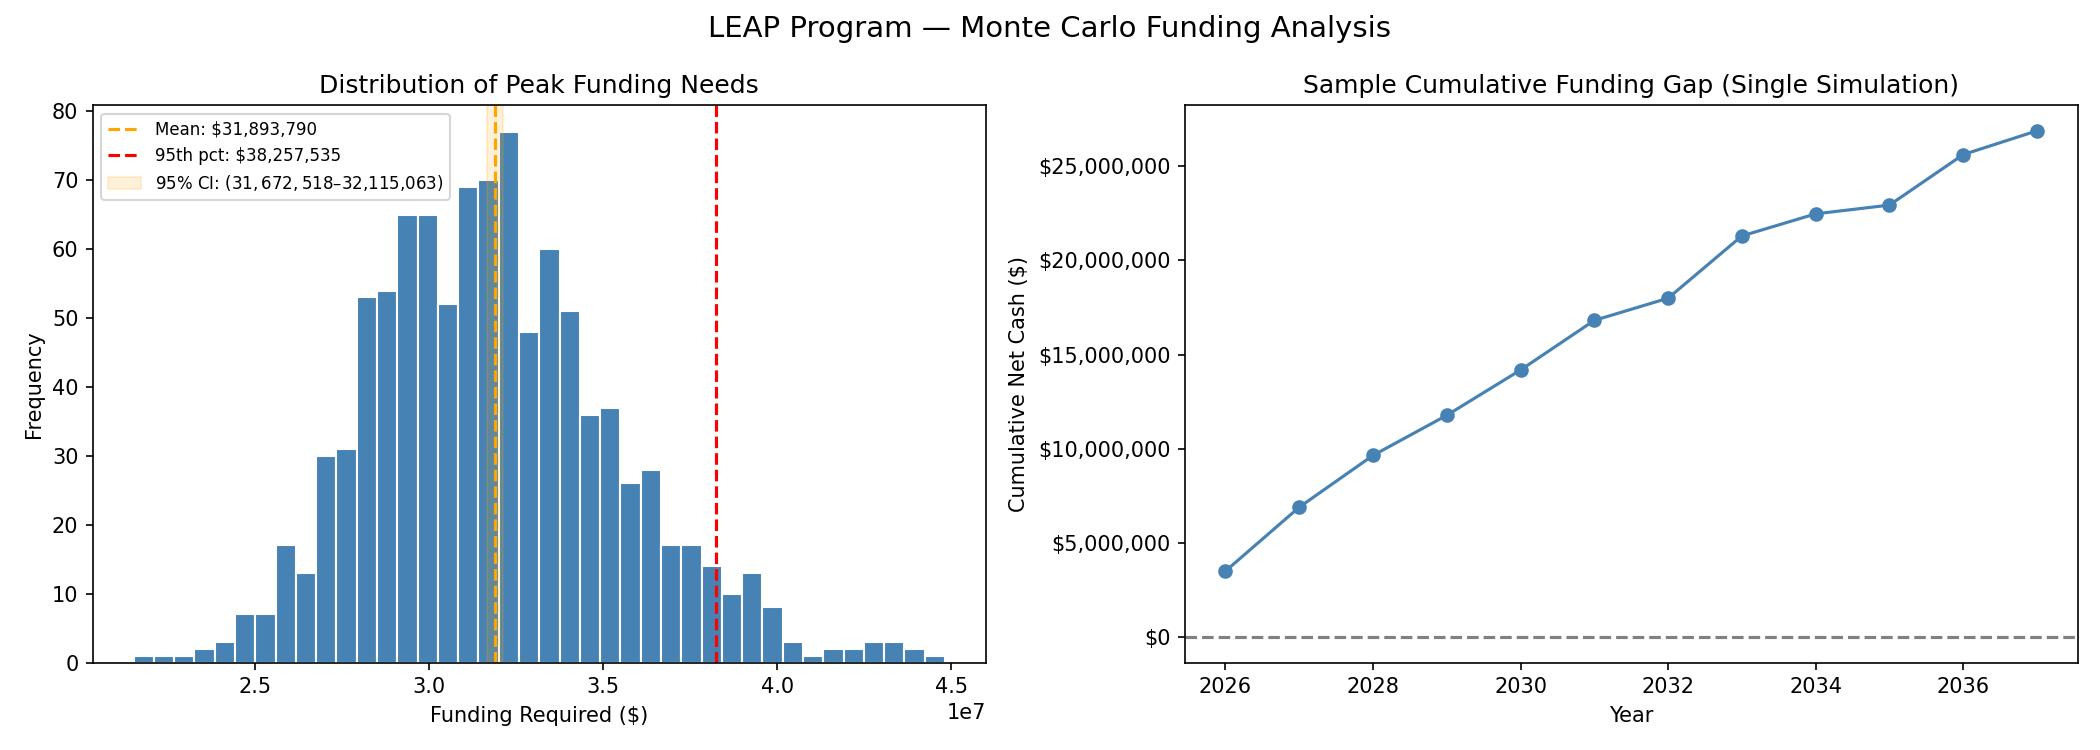
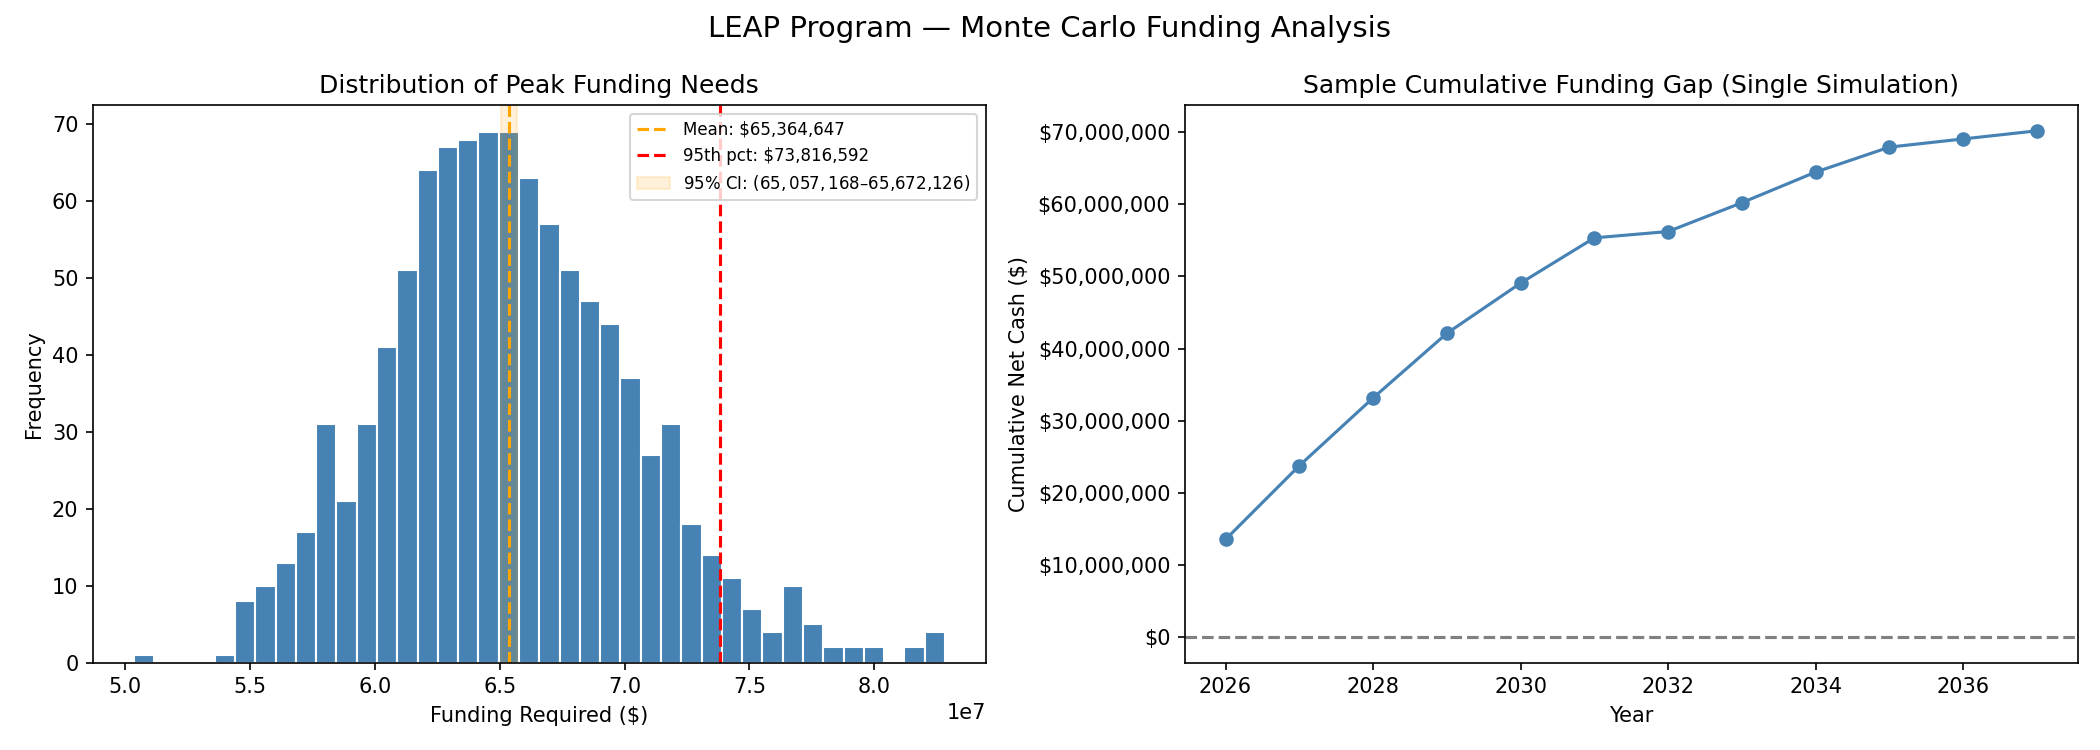
5:26

diff --git a/src/monte_carlo.py b/src/monte_carlo.py
@@ -14,76 +14,99 @@ def compute_funding_requirement(outflows, inflows):
 # -------------------------------------------------------
 # Parameters
 # -------------------------------------------------------
-HOMES        = 72848
-YEARS        = np.arange(2026, 2038)
-N_YEARS      = len(YEARS)
+HOMES   = 16280
+YEARS   = np.arange(2026, 2038)   # 2026–2037 inclusive (12 years)
+N_YEARS = len(YEARS)
 
-# Pipe failure
-p_base_failure   = 0.02     # annual base probability a pipe fails (~2% per year, ~50yr lifespan)
-p_weather_event  = 0.002    # probability of an extreme weather year
-weather_multiplier = 2.0    # failure rate multiplier during weather event
-
-# Repair vs replacement
-# Repairs excluded from program per problem scope — only replacements are loans
-p_replace = 0.40            # 40% of failures → full replacement (loan issued)
-                             # 60% of failures → repair (NOT funded by program, ignored)
+# Replacement schedule decay — rebuilt each simulation
+decay_mean = 0.10
+decay_std  = 0.025
 
 # Loan parameters
-replace_mean = 7386          # mean replacement cost
-replace_std  = 2613.92       # standard deviation of replacement cost
-loan_cap     = 10000         # max loan amount per LEAP rules
+replace_mean = 7386
+replace_std  = 2613.92
+loan_cap     = 10000
 
 # Repayment triggers
-p_sale = 0.0878              # annual probability of home sale
-p_refi = 0.0325              # annual probability of refinancing / HELOC
+p_sale = 0.0878
+p_refi = 0.0325
+p_aid  = 0.03821   # 3.821% of homeowners receive aid — loan is forgiven, never repaid
 
 # Inflation
 inflation_mean = 0.0321
 inflation_std  = 0.0394
 
+# Weather — affects cost slightly, not replacement count
+# (pipe is being replaced on schedule regardless)
+p_weather_event   = 0.002
+weather_cost_mult = 1.15    # costs run ~15% higher in a weather year
+
 
 # -------------------------------------------------------
-# Single Simulation (vectorized over homes for speed)
+# Build replacement schedule
+# -------------------------------------------------------
+def build_schedule():
+    # Fixed baseline schedule used only for display purposes in main.
+    # Each simulation rebuilds its own schedule with stochastic decay.
+    weights  = np.array([0.9**t for t in range(N_YEARS)], dtype=float)
+    weights /= weights.sum()
+    schedule = np.round(weights * HOMES).astype(int)
+    diff = HOMES - schedule.sum()
+    schedule[0] += diff
+    return schedule
+
+SCHEDULE = build_schedule()  # baseline for display only
+
+
+# -------------------------------------------------------
+# Single Simulation
 # -------------------------------------------------------
 def single_simulation():
     outflows = np.zeros(N_YEARS)
     inflows  = np.zeros(N_YEARS)
 
+    # Rebuild schedule each simulation with stochastic decay
+    # Each year's decay rate is drawn from Normal(decay_mean, decay_std)
+    decays   = np.random.normal(decay_mean, decay_std, size=N_YEARS)
+    decays   = np.clip(decays, 0, 1)   # decay can't be negative or >100%
+    weights  = np.zeros(N_YEARS)
+    weights[0] = 1.0
+    for t in range(1, N_YEARS):
+        weights[t] = weights[t-1] * (1 - decays[t])
+    weights /= weights.sum()
+    schedule = np.round(weights * HOMES).astype(int)
+    schedule[0] += HOMES - schedule.sum()  # fix rounding
+
     for t in range(N_YEARS):
-        # Inflation for this year
+        n_homes = schedule[t]
+
+        if n_homes == 0:
+            continue
         inflation        = np.random.normal(inflation_mean, inflation_std)
         inflation_factor = (1 + inflation) ** t
 
-        # Weather shock (Bernoulli draw)
-        weather_event = np.random.rand() < p_weather_event
-        p_failure     = p_base_failure * (weather_multiplier if weather_event else 1.0)
+        # Weather shock — slightly inflates costs
+        weather_event   = np.random.rand() < p_weather_event
+        cost_multiplier = inflation_factor * (weather_cost_mult if weather_event else 1.0)
 
-        # --- Vectorized over all homes ---
-        # Step 1: which homes fail this year?
-        failures = np.random.rand(HOMES) < p_failure
-
-        # Step 2: of those, which get a full replacement (vs repair, which is excluded)?
-        replacements = failures & (np.random.rand(HOMES) < p_replace)
-        n_replacements = replacements.sum()
-
-        if n_replacements == 0:
-            continue
-
-        # Step 3: draw replacement costs, cap at loan_cap, apply inflation
-        costs = np.random.normal(replace_mean, replace_std, size=n_replacements)
+        # Draw replacement costs for all homes replaced this year
+        costs = np.random.normal(replace_mean, replace_std, size=n_homes)
         costs = np.clip(costs, 0, loan_cap)
-        costs *= inflation_factor
+        costs *= cost_multiplier
 
-        # Step 4: record outflows
+        # Record outflows
         outflows[t] += costs.sum()
 
-        # Step 5: simulate repayment timing for each replacement loan
+        # Simulate repayment timing for each loan
         for cost in costs:
+            # Aid recipients have their loan forgiven — no repayment ever
+            if np.random.rand() < p_aid:
+                continue
             for future_t in range(t, N_YEARS):
                 if (np.random.rand() < p_sale) or (np.random.rand() < p_refi):
                     inflows[future_t] += cost
                     break
-            # If not repaid within program window → long tail, not counted here
+            # If not repaid within window → long tail, excluded (conservative assumption)
 
     funding, cumulative = compute_funding_requirement(outflows, inflows)
     return funding, cumulative
@@ -94,7 +117,7 @@ def single_simulation():
 # -------------------------------------------------------
 def monte_carlo(n_sim=1000):
     results     = []
-    final_curve = None   # store one representative cumulative curve for plotting
+    final_curve = None
 
     for sim in range(n_sim):
         funding, cumulative = single_simulation()
@@ -104,16 +127,10 @@ def monte_carlo(n_sim=1000):
 
     results      = np.array(results)
     mean_funding = np.mean(results)
-
-    # 95th percentile: the funding level that covers 95% of simulated scenarios
-    # (a distributional worst-case, not an inferential statistic)
     p95_funding  = np.percentile(results, 95)
 
-    # 95% confidence interval: how precisely we've estimated the TRUE mean
-    # using a t-distribution to account for finite sample size
-    se  = stats.sem(results)                                  # standard error of the mean
-    ci  = stats.t.interval(0.95, df=len(results)-1,
-                           loc=mean_funding, scale=se)        # (lower, upper)
+    se = stats.sem(results)
+    ci = stats.t.interval(0.95, df=len(results) - 1, loc=mean_funding, scale=se)
 
     return mean_funding, p95_funding, ci, results, final_curve
 
@@ -122,30 +139,23 @@ def monte_carlo(n_sim=1000):
 # Grant Baseline (no repayments — upper bound)
 # -------------------------------------------------------
 def grant_baseline():
-    """
-    Under a pure grant model, there are no inflows.
-    Funding required = total outflows across all years.
-    Run one simulation with inflows zeroed out.
-    """
     outflows = np.zeros(N_YEARS)
 
     for t in range(N_YEARS):
+        n_homes = SCHEDULE[t]
+
+        if n_homes == 0:
+            continue
+
         inflation        = np.random.normal(inflation_mean, inflation_std)
         inflation_factor = (1 + inflation) ** t
 
-        weather_event = np.random.rand() < p_weather_event
-        p_failure     = p_base_failure * (weather_multiplier if weather_event else 1.0)
+        weather_event   = np.random.rand() < p_weather_event
+        cost_multiplier = inflation_factor * (weather_cost_mult if weather_event else 1.0)
 
-        failures     = np.random.rand(HOMES) < p_failure
-        replacements = failures & (np.random.rand(HOMES) < p_replace)
-        n_replacements = replacements.sum()
-
-        if n_replacements == 0:
-            continue
-
-        costs = np.random.normal(replace_mean, replace_std, size=n_replacements)
+        costs = np.random.normal(replace_mean, replace_std, size=n_homes)
         costs = np.clip(costs, 0, loan_cap)
-        costs *= inflation_factor
+        costs *= cost_multiplier
         outflows[t] += costs.sum()
 
     return outflows.sum()
@@ -165,7 +175,6 @@ def plot_results(results, mean_funding, p95_funding, ci, cumulative_curve):
                 label=f"Mean: ${mean_funding:,.0f}")
     ax1.axvline(p95_funding,  color="red",    linestyle="--",
                 label=f"95th pct: ${p95_funding:,.0f}")
-    # Shade the 95% confidence interval around the mean
     ax1.axvspan(ci[0], ci[1], alpha=0.15, color="orange",
                 label=f"95% CI: (${ci[0]:,.0f} – ${ci[1]:,.0f})")
     ax1.set_xlabel("Funding Required ($)")
@@ -192,22 +201,25 @@ def plot_results(results, mean_funding, p95_funding, ci, cumulative_curve):
 # -------------------------------------------------------
 if __name__ == "__main__":
 
+    print(f"Total homes in pool    : {HOMES:,} (all replaced exactly once)")
+    print(f"Schedule               : front-loaded, -10% per year (2026→2037)")
+    print(f"Homes per year         : {SCHEDULE[0]:,} (2026) → {SCHEDULE[-1]:,} (2037)")
     print("Running Monte Carlo simulation...")
+
     mean_funding, p95_funding, ci, results, cumulative_curve = monte_carlo(n_sim=1000)
 
     print(f"\n--- Loan Model Results ---")
-    print(f"Mean Funding Needed  : ${mean_funding:,.0f}")
-    print(f"95% Confidence Interval: (${ci[0]:,.0f}  –  ${ci[1]:,.0f})")
-    print(f"  → We are 95% confident the true mean funding need falls in this range.")
-    print(f"95th Percentile      : ${p95_funding:,.0f}")
+    print(f"Mean Funding Needed     : ${mean_funding:,.0f}")
+    print(f"95% Confidence Interval : (${ci[0]:,.0f}  –  ${ci[1]:,.0f})")
+    print(f"  → 95% confident the true mean funding need falls in this range.")
+    print(f"95th Percentile         : ${p95_funding:,.0f}")
     print(f"  → 95% of simulated scenarios required less than this amount.")
 
-    # Grant comparison (single estimate — no repayments)
     grant_runs = [grant_baseline() for _ in range(200)]
     mean_grant = np.mean(grant_runs)
     print(f"\n--- Grant Model Comparison ---")
-    print(f"Mean Grant Funding   : ${mean_grant:,.0f}")
-    print(f"Loan vs Grant Savings: ${mean_grant - mean_funding:,.0f} "
+    print(f"Mean Grant Funding      : ${mean_grant:,.0f}")
+    print(f"Loan vs Grant Savings   : ${mean_grant - mean_funding:,.0f} "
           f"({(mean_grant - mean_funding) / mean_grant * 100:.1f}% reduction)")
 
     plot_results(results, mean_funding, p95_funding, ci, cumulative_curve)
